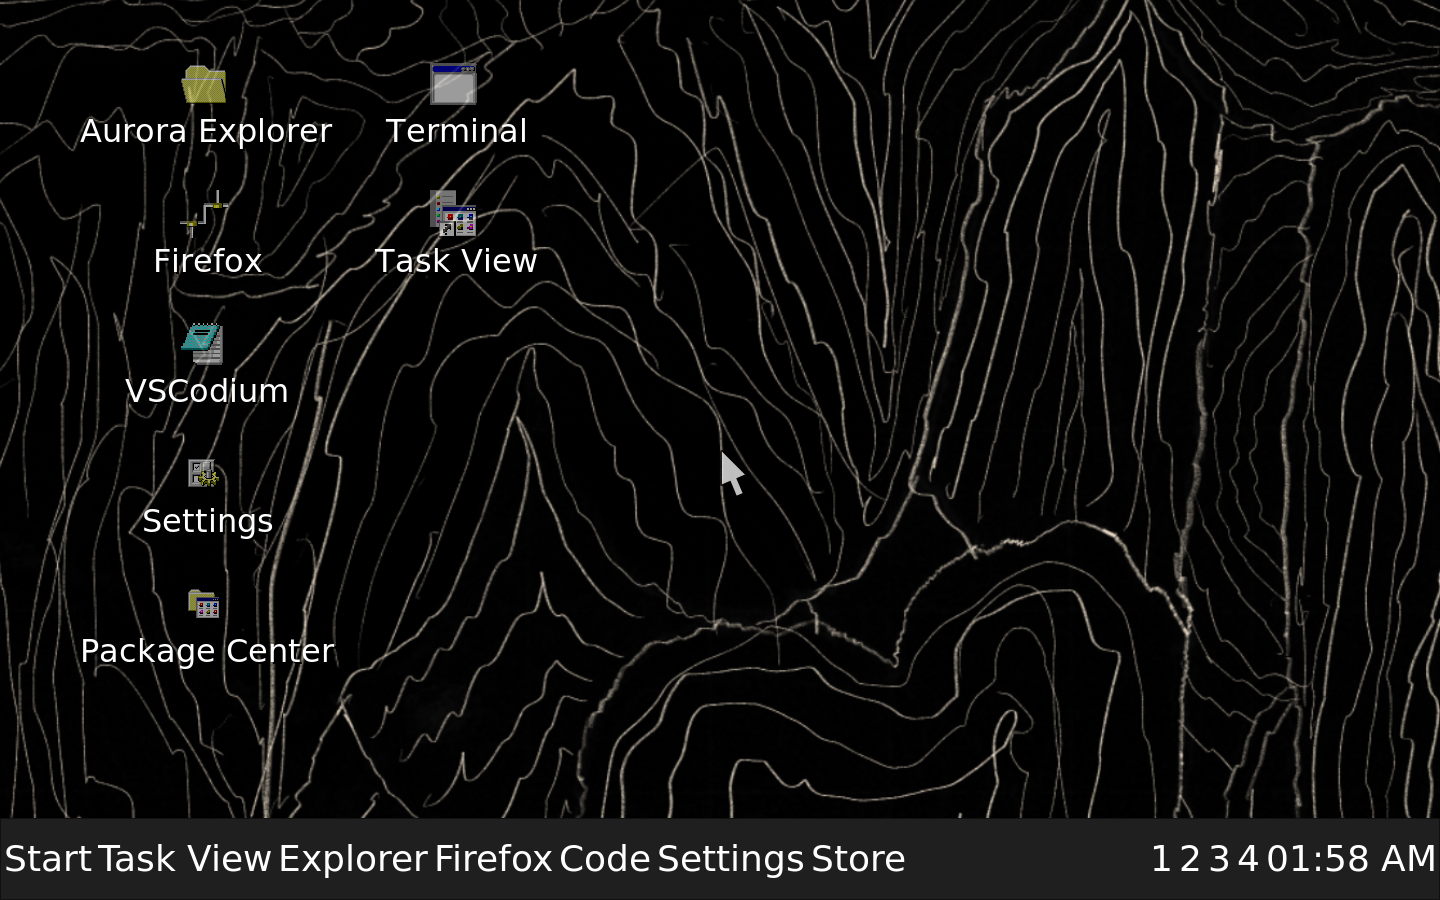
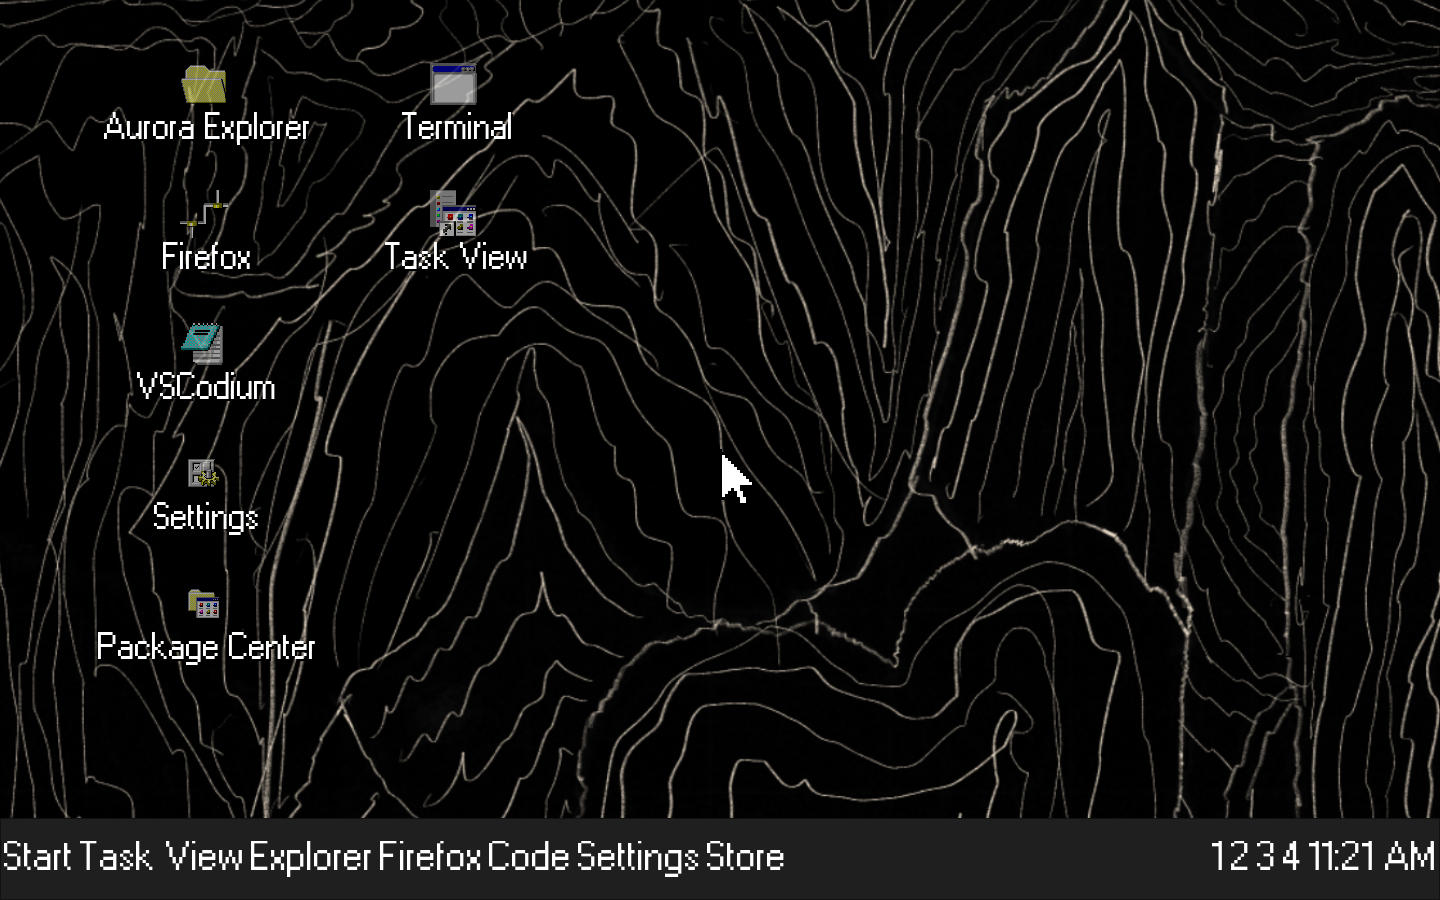
Use supplied pixel cursor and font

diff --git a/tools/build_firefox_qemu.py b/tools/build_firefox_qemu.py
@@ -254,6 +254,49 @@ def write_app_surface() -> None:
     shutil.copy2(ROOT / "IMG_0249.jpg", media_dir / "wallpaper.jpg")
     shutil.copy2(ROOT / "click.wav", sound_dir / "click.wav")
 
+    font_dir = ROOTFS / "usr" / "share" / "fonts" / "aurora"
+    font_dir.mkdir(parents=True, exist_ok=True)
+    shutil.copy2(ROOT / "MSW98UI-Regular copy.ttf", font_dir / "MSW98UI-Regular.ttf")
+    shutil.copy2(ROOT / "MSW98UI-Bold copy.ttf", font_dir / "MSW98UI-Bold.ttf")
+    write_file(
+        "/etc/fonts/conf.d/99-aurora-fonts.conf",
+        """<?xml version="1.0"?>
+<!DOCTYPE fontconfig SYSTEM "fonts.dtd">
+<fontconfig>
+  <alias>
+    <family>sans-serif</family>
+    <prefer><family>MS W98 UI</family></prefer>
+  </alias>
+  <alias>
+    <family>system-ui</family>
+    <prefer><family>MS W98 UI</family></prefer>
+  </alias>
+</fontconfig>
+""",
+    )
+
+    cursor_source = ROOT / "assets" / "cursors" / "aurora-pointer.png"
+    cursor_theme = ROOTFS / "usr" / "share" / "icons" / "AuroraPixel"
+    cursor_dir = cursor_theme / "cursors"
+    cursor_dir.mkdir(parents=True, exist_ok=True)
+    shutil.copy2(cursor_source, cursor_theme / "Arrow1.png")
+    (cursor_theme / "index.theme").write_text(
+        "[Icon Theme]\nName=Aurora Pixel Cursor\nInherits=whiteglass\n"
+    )
+    cursor_config = cursor_theme / "cursor.conf"
+    cursor_config.write_text("48 1 1 Arrow1.png\n")
+    xcursorgen = shutil.which("xcursorgen") or "/opt/X11/bin/xcursorgen"
+    subprocess.run(
+        [xcursorgen, str(cursor_config), str(cursor_dir / "left_ptr")],
+        cwd=cursor_theme,
+        check=True,
+    )
+    for cursor_alias in ("default", "arrow", "top_left_arrow"):
+        alias = cursor_dir / cursor_alias
+        if alias.exists() or alias.is_symlink():
+            alias.unlink()
+        alias.symlink_to("left_ptr")
+
     write_file(
         "/usr/bin/aurora-click",
         """#!/bin/sh
@@ -355,7 +398,7 @@ exec {launcher_command}
 <title>AuroraOS 98 Package Center</title>
 <style>
 * {{ box-sizing: border-box; }}
-html, body {{ margin: 0; min-height: 100%; background: #111 url("wallpaper.jpg") center/cover fixed no-repeat; color: #f3f3f3; font: 20px "DejaVu Sans", sans-serif; }}
+html, body {{ margin: 0; min-height: 100%; background: #111 url("wallpaper.jpg") center/cover fixed no-repeat; color: #f3f3f3; font: 20px "MS W98 UI", sans-serif; }}
 body {{ padding: 10px; }}
 button, input {{ font: inherit; }}
 .window {{ border: 1px solid #333; background: #202020; box-shadow: 0 0 0 1px #000; }}
@@ -894,7 +937,7 @@ echo
 cat <<'HTML'
 <!doctype html><html><head><meta charset="utf-8"><title>Aurora Settings</title>
 <style>
-*{box-sizing:border-box}body{margin:0;background:#111 url("/wallpaper.jpg") center/cover fixed no-repeat;color:#f3f3f3;font:21px "DejaVu Sans",Arial,sans-serif}.window{width:1220px;max-width:calc(100vw - 24px);margin:12px auto;background:#1f1f24;border:1px solid #353542;box-shadow:0 12px 34px #000}.title{height:58px;background:#0078d7;color:#fff;font-size:26px;font-weight:700;padding:13px 20px}.nav{display:flex;gap:10px;padding:14px 18px;background:#18181d;border-bottom:1px solid #333}.nav button{font:inherit;color:#eee;background:#2b2b33;border:1px solid #454553;padding:12px 16px}.nav button.active{background:#0078d7;border-color:#3195e6}.main{padding:20px;min-height:720px}.grid{display:grid;grid-template-columns:1fr 1fr;gap:16px}.section{background:#292933;border:1px solid #3c3c48;padding:18px;margin-bottom:16px}.wide{grid-column:1/-1}.row{display:grid;grid-template-columns:230px 1fr;gap:16px;margin-bottom:12px;align-items:center}.value{background:#17171b;border:1px solid #3c3c48;padding:12px}.btn,input{font:inherit}.btn{padding:12px 16px;background:#333742;color:#f3f3f3;border:1px solid #555b6a}.btn:hover{background:#404755;border-color:#3a96dd}.btn:active{background:#005a9e}input{width:100%;padding:12px;border:1px solid #555;background:#111;color:#fff}table{width:100%;border-collapse:collapse;background:#18181d}th,td{border:1px solid #3c3c48;padding:12px;text-align:left}th{background:#0078d7;color:#fff}.note{background:#15151a;border:1px solid #3c3c48;padding:14px}.msg{background:#111;border:1px solid #0078d7;padding:12px;margin-bottom:14px}.actions{display:flex;gap:12px;flex-wrap:wrap}.storage{height:44px;display:grid;grid-template-columns:26% 17% 1% 1% 34% 14% 7%;overflow:hidden;border:1px solid #424250}.storage span:nth-child(1){background:#ff4343}.storage span:nth-child(2){background:#ff9b2e}.storage span:nth-child(3){background:#ffd400}.storage span:nth-child(4){background:#30d158}.storage span:nth-child(5){background:#8a8a8a}.storage span:nth-child(6){background:#aaa}.storage span:nth-child(7){background:#555}.desktops{display:grid;grid-template-columns:repeat(4,1fr);gap:14px}.desktop{height:110px;background:#111;border:2px solid #444;display:flex;align-items:center;justify-content:center}.desktop.active{border-color:#0078d7;background:#08345a}h1{font-size:40px;margin:0 0 18px}h2{font-size:28px;margin:0 0 14px}
+*{box-sizing:border-box}body{margin:0;background:#111 url("/wallpaper.jpg") center/cover fixed no-repeat;color:#f3f3f3;font:21px "MS W98 UI",Arial,sans-serif}.window{width:1220px;max-width:calc(100vw - 24px);margin:12px auto;background:#1f1f24;border:1px solid #353542;box-shadow:0 12px 34px #000}.title{height:58px;background:#0078d7;color:#fff;font-size:26px;font-weight:700;padding:13px 20px}.nav{display:flex;gap:10px;padding:14px 18px;background:#18181d;border-bottom:1px solid #333}.nav button{font:inherit;color:#eee;background:#2b2b33;border:1px solid #454553;padding:12px 16px}.nav button.active{background:#0078d7;border-color:#3195e6}.main{padding:20px;min-height:720px}.grid{display:grid;grid-template-columns:1fr 1fr;gap:16px}.section{background:#292933;border:1px solid #3c3c48;padding:18px;margin-bottom:16px}.wide{grid-column:1/-1}.row{display:grid;grid-template-columns:230px 1fr;gap:16px;margin-bottom:12px;align-items:center}.value{background:#17171b;border:1px solid #3c3c48;padding:12px}.btn,input{font:inherit}.btn{padding:12px 16px;background:#333742;color:#f3f3f3;border:1px solid #555b6a}.btn:hover{background:#404755;border-color:#3a96dd}.btn:active{background:#005a9e}input{width:100%;padding:12px;border:1px solid #555;background:#111;color:#fff}table{width:100%;border-collapse:collapse;background:#18181d}th,td{border:1px solid #3c3c48;padding:12px;text-align:left}th{background:#0078d7;color:#fff}.note{background:#15151a;border:1px solid #3c3c48;padding:14px}.msg{background:#111;border:1px solid #0078d7;padding:12px;margin-bottom:14px}.actions{display:flex;gap:12px;flex-wrap:wrap}.storage{height:44px;display:grid;grid-template-columns:26% 17% 1% 1% 34% 14% 7%;overflow:hidden;border:1px solid #424250}.storage span:nth-child(1){background:#ff4343}.storage span:nth-child(2){background:#ff9b2e}.storage span:nth-child(3){background:#ffd400}.storage span:nth-child(4){background:#30d158}.storage span:nth-child(5){background:#8a8a8a}.storage span:nth-child(6){background:#aaa}.storage span:nth-child(7){background:#555}.desktops{display:grid;grid-template-columns:repeat(4,1fr);gap:14px}.desktop{height:110px;background:#111;border:2px solid #444;display:flex;align-items:center;justify-content:center}.desktop.active{border-color:#0078d7;background:#08345a}h1{font-size:40px;margin:0 0 18px}h2{font-size:28px;margin:0 0 14px}
 </style><script>function clickSound(){const a=document.getElementById('click-sound');if(a){a.currentTime=0;a.play().catch(()=>{});}}window.addEventListener('DOMContentLoaded',()=>document.querySelectorAll('button').forEach(b=>b.addEventListener('click',clickSound)));</script></head><body><audio id="click-sound" src="/click.wav" preload="auto"></audio><div class="window"><div class="title">Aurora Settings</div><div class="nav"><button class="active">System</button><button>Network</button><button>Sound</button><button>Appearance</button><button>Task View</button><button>Apps</button></div><div class="main"><h1>System</h1>
 HTML
 if [ -n "$message" ]; then
@@ -1037,7 +1080,7 @@ if [ ! -f /tmp/firefox-home/.config/gtk-3.0/settings.ini ]; then
 [Settings]
 gtk-theme-name=Raleigh
 gtk-icon-theme-name=hicolor
-gtk-font-name=DejaVu Sans 17
+gtk-font-name=MS W98 UI 17
 gtk-application-prefer-dark-theme=1
 gtk-enable-animations=0
 EOF
@@ -1057,7 +1100,7 @@ if command -v pcmanfm >/dev/null 2>&1; then
   pcmanfm "$root" >>/tmp/aurora-pcmanfm.log 2>&1 && exit 0
 fi
 
-exec xterm -geometry 104x34+86+76 -title "AuroraOS File Explorer" -bg '#111111' -fg '#f3f3f3' -fa 'DejaVu Sans' -fs 14 -e sh -c 'cd "$1" 2>/dev/null || cd /tmp/firefox-home; echo "PCManFM did not stay open; showing fallback file list."; echo; ls -lah; echo; echo "Press Enter to close."; read line' sh "$root"
+exec xterm -geometry 104x34+86+76 -title "AuroraOS File Explorer" -bg '#111111' -fg '#f3f3f3' -fa 'MS W98 UI' -fs 14 -e sh -c 'cd "$1" 2>/dev/null || cd /tmp/firefox-home; echo "PCManFM did not stay open; showing fallback file list."; echo; ls -lah; echo; echo "Press Enter to close."; read line' sh "$root"
 """,
         0o755,
     )
@@ -1076,7 +1119,7 @@ if command -v idesk >/dev/null 2>&1; then
   mkdir -p /tmp/firefox-home/.idesktop
   cat >/tmp/firefox-home/.ideskrc <<'EOF'
 table Config
-  FontName: DejaVu Sans
+  FontName: MS W98 UI
   FontSize: 16
   FontColor: #ffffff
   ToolTip.FontSize: 13
@@ -1632,7 +1675,7 @@ def read(path, fallback="Unavailable"):
 def button(parent, text, command, width=None):
     widget = tk.Button(parent, text=text, command=command, bg="#343434", fg=TEXT,
                        activebackground=BLUE, activeforeground="white", bd=1,
-                       relief="solid", padx=16, pady=10, font=("DejaVu Sans", 14),
+                       relief="solid", padx=16, pady=10, font=("MS W98 UI", 14),
                        cursor="hand2")
     if width:
         widget.configure(width=width)
@@ -1645,7 +1688,7 @@ class AuroraApp(tk.Tk):
         self.geometry(size)
         self.minsize(920, 620)
         self.configure(bg=BG)
-        self.option_add("*Font", ("DejaVu Sans", 14))
+        self.option_add("*Font", ("MS W98 UI", 14))
         self.option_add("*Foreground", TEXT)
         self.option_add("*Background", BG)
         self.bind_all("<Button-1>", lambda _e: subprocess.Popen(
@@ -1654,15 +1697,15 @@ class AuroraApp(tk.Tk):
 
     def heading(self, parent, title, subtitle=""):
         tk.Label(parent, text=title, bg=BG, fg=TEXT,
-                 font=("DejaVu Sans", 27, "bold"), anchor="w").pack(fill="x", pady=(0, 4))
+                 font=("MS W98 UI", 27, "bold"), anchor="w").pack(fill="x", pady=(0, 4))
         if subtitle:
             tk.Label(parent, text=subtitle, bg=BG, fg=MUTED,
-                     font=("DejaVu Sans", 14), anchor="w").pack(fill="x", pady=(0, 20))
+                     font=("MS W98 UI", 14), anchor="w").pack(fill="x", pady=(0, 20))
 
     def card(self, parent, title):
         frame = tk.Frame(parent, bg=PANEL, bd=1, relief="solid", padx=18, pady=16)
         tk.Label(frame, text=title, bg=PANEL, fg=TEXT,
-                 font=("DejaVu Sans", 18, "bold"), anchor="w").pack(fill="x", pady=(0, 12))
+                 font=("MS W98 UI", 18, "bold"), anchor="w").pack(fill="x", pady=(0, 12))
         return frame
 
 class Settings(AuroraApp):
@@ -1676,7 +1719,7 @@ class Settings(AuroraApp):
         sidebar.pack(side="left", fill="y")
         sidebar.pack_propagate(False)
         tk.Label(sidebar, text="Aurora Settings", bg="#151515", fg=TEXT,
-                 font=("DejaVu Sans", 19, "bold"), anchor="w").pack(fill="x", padx=8, pady=(4, 22))
+                 font=("MS W98 UI", 19, "bold"), anchor="w").pack(fill="x", padx=8, pady=(4, 22))
         self.content = tk.Frame(shell, bg=BG, padx=30, pady=26)
         self.content.pack(side="left", fill="both", expand=True)
         for name in self.pages:
@@ -1776,7 +1819,7 @@ class Settings(AuroraApp):
             preview.grid(row=(index-1)//2, column=(index-1)%2, padx=10, pady=10, sticky="nsew")
             preview.grid_propagate(False)
             tk.Label(preview, text=f"Desktop {index}", bg=PANEL2, fg=TEXT,
-                     font=("DejaVu Sans", 20, "bold")).pack(expand=True)
+                     font=("MS W98 UI", 20, "bold")).pack(expand=True)
             button(preview, "Switch", lambda i=index: run(["jwm", "-desktop", str(i)])).pack(pady=14)
         grid.grid_columnconfigure((0, 1), weight=1)
         grid.grid_rowconfigure((0, 1), weight=1)
@@ -1803,7 +1846,7 @@ class PackageCenter(AuroraApp):
         for row, (name, description, state, cmd) in enumerate(self.apps):
             card = tk.Frame(listing, bg=PANEL, bd=1, relief="solid", padx=16, pady=12)
             card.grid(row=row, column=0, sticky="ew", pady=5)
-            tk.Label(card, text=name, bg=PANEL, fg=TEXT, font=("DejaVu Sans", 17, "bold"), anchor="w").grid(row=0, column=0, sticky="w")
+            tk.Label(card, text=name, bg=PANEL, fg=TEXT, font=("MS W98 UI", 17, "bold"), anchor="w").grid(row=0, column=0, sticky="w")
             tk.Label(card, text=description, bg=PANEL, fg=MUTED, anchor="w").grid(row=1, column=0, sticky="w")
             button(card, "Open" if state == "Installed" else state, lambda c=cmd: run(c), width=10).grid(row=0, column=1, rowspan=2, padx=8)
             card.grid_columnconfigure(0, weight=1)
@@ -1814,7 +1857,7 @@ class PackageCenter(AuroraApp):
         dialog.title("Install Linux package")
         dialog.geometry("560x220")
         dialog.configure(bg=PANEL)
-        tk.Label(dialog, text="Alpine package name", bg=PANEL, fg=TEXT, font=("DejaVu Sans", 18, "bold")).pack(anchor="w", padx=22, pady=(22, 10))
+        tk.Label(dialog, text="Alpine package name", bg=PANEL, fg=TEXT, font=("MS W98 UI", 18, "bold")).pack(anchor="w", padx=22, pady=(22, 10))
         entry = tk.Entry(dialog, bg="#111", fg=TEXT, insertbackground=TEXT)
         entry.pack(fill="x", padx=22, ipady=8)
         button(dialog, "Install", lambda: run(["/usr/bin/aurora-package-install-custom", entry.get()])).pack(anchor="e", padx=22, pady=18)
@@ -1832,7 +1875,7 @@ class TaskView(AuroraApp):
             preview = tk.Frame(grid, bg=PANEL2, bd=2, relief="solid", width=500, height=210)
             preview.grid(row=(index-1)//2, column=(index-1)%2, padx=10, pady=10, sticky="nsew")
             preview.grid_propagate(False)
-            tk.Label(preview, text=f"Desktop {index}", bg=PANEL2, fg=TEXT, font=("DejaVu Sans", 22, "bold")).pack(pady=(40, 8))
+            tk.Label(preview, text=f"Desktop {index}", bg=PANEL2, fg=TEXT, font=("MS W98 UI", 22, "bold")).pack(pady=(40, 8))
             tk.Label(preview, text=label, bg=PANEL2, fg=MUTED).pack()
             button(preview, "Switch desktop", lambda i=index: (run(["jwm", "-desktop", str(i)]), self.destroy())).pack(pady=20)
         grid.grid_columnconfigure((0, 1), weight=1)
@@ -1901,6 +1944,8 @@ exec /usr/bin/aurora-control-center {mode}
             return "/usr/bin/aurora-launch-settings"
         if name == "Package Center":
             return "/usr/bin/aurora-launch-package-center"
+        if name == "Firefox":
+            return "/usr/bin/aurora-launch-firefox"
         if name == "Run Windows EXE":
             return with_click("/usr/bin/aurora-run-exe")
         if name in {"File Explorer", "Explorer"}:
@@ -1985,7 +2030,7 @@ exec /usr/bin/aurora-control-center {mode}
 
   <Desktops width="4" height="1" />
   <WindowStyle>
-    <Font>DejaVu Sans-18</Font>
+    <Font>MS W98 UI-18</Font>
     <Width>2</Width>
     <Height>46</Height>
     <Active>
@@ -2000,19 +2045,19 @@ exec /usr/bin/aurora-control-center {mode}
     </Inactive>
   </WindowStyle>
   <TaskListStyle>
-    <Font>DejaVu Sans-18</Font>
+    <Font>MS W98 UI-18</Font>
     <ActiveForeground>#ffffff</ActiveForeground>
     <ActiveBackground>#0b4ba5</ActiveBackground>
     <Foreground>#f3f3f3</Foreground>
     <Background>#1f1f1f</Background>
   </TaskListStyle>
   <TrayStyle>
-    <Font>DejaVu Sans-18</Font>
+    <Font>MS W98 UI-18</Font>
     <Background>#1f1f1f</Background>
     <Foreground>#ffffff</Foreground>
   </TrayStyle>
   <MenuStyle>
-    <Font>DejaVu Sans-18</Font>
+    <Font>MS W98 UI-18</Font>
     <Foreground>#f3f3f3</Foreground>
     <Background>#202020</Background>
     <ActiveForeground>#ffffff</ActiveForeground>
@@ -2174,9 +2219,9 @@ export MOZ_DISABLE_CONTENT_SANDBOX=1
 export GDK_DPI_SCALE=1.25
 export GDK_SCALE=1
 export QT_SCALE_FACTOR=1.25
-export XCURSOR_THEME=whiteglass
+export XCURSOR_THEME=AuroraPixel
 export XCURSOR_SIZE=48
-printf 'Xft.dpi: 144\nXcursor.size: 48\nXcursor.theme: whiteglass\n' >/tmp/firefox-home/.Xresources
+printf 'Xft.dpi: 144\nXcursor.size: 48\nXcursor.theme: AuroraPixel\n' >/tmp/firefox-home/.Xresources
 xrdb -merge /tmp/firefox-home/.Xresources 2>/dev/null || true
 feh --bg-fill /usr/share/aurora/wallpaper.jpg >/tmp/aurora-xinit-wallpaper.log 2>&1 || true
 exec jwm -f /etc/jwm/aurora.jwmrc
@@ -2200,14 +2245,14 @@ chmod 700 /run/user/0
 chmod 700 /tmp/firefox-home /tmp/firefox-home/profile
 cat >/tmp/firefox-home/.gtkrc-2.0 <<'EOF'
 gtk-theme-name="AuroraDark"
-gtk-font-name="DejaVu Sans 14"
+gtk-font-name="MS W98 UI 14"
 gtk-icon-theme-name="Adwaita"
 EOF
 mkdir -p /tmp/firefox-home/.config/gtk-3.0
 cat >/tmp/firefox-home/.config/gtk-3.0/settings.ini <<'EOF'
 [Settings]
 gtk-theme-name=Adwaita-dark
-gtk-font-name=DejaVu Sans 14
+gtk-font-name=MS W98 UI 14
 gtk-icon-theme-name=Adwaita
 EOF
 cp /usr/share/aurora/mimeapps.list /tmp/firefox-home/.local/share/applications/mimeapps.list 2>/dev/null || true
@@ -2282,7 +2327,7 @@ export HOME=/tmp/firefox-home
 export DISPLAY=:0
 export XDG_RUNTIME_DIR=/run/user/0
 export XCURSOR_SIZE=48
-export XCURSOR_THEME=whiteglass
+export XCURSOR_THEME=AuroraPixel
 export GDK_DPI_SCALE=1.25
 export GDK_SCALE=1
 export QT_SCALE_FACTOR=1.25
@@ -2307,7 +2352,7 @@ if command -v dbus-launch >/dev/null 2>&1; then
     [ -s /tmp/dbus-session.env ] && . /tmp/dbus-session.env
 fi
 xsetroot -display :0 -solid '#111111' >/dev/console 2>&1 || true
-printf 'Xft.dpi: 144\nXcursor.size: 48\nXcursor.theme: whiteglass\n' >/tmp/firefox-home/.Xresources
+printf 'Xft.dpi: 144\nXcursor.size: 48\nXcursor.theme: AuroraPixel\n' >/tmp/firefox-home/.Xresources
 xrdb -display :0 -merge /tmp/firefox-home/.Xresources >/dev/console 2>&1 || true
 xsetroot -display :0 -cursor_name left_ptr >/dev/console 2>&1 || true
 xmodmap -display :0 -e "clear mod4" -e "keycode 133 = Control_L NoSymbol Control_L" -e "keycode 134 = Control_R NoSymbol Control_R" -e "add Control = Control_L Control_R" >/var/log/xmodmap.log 2>&1 || true

diff --git a/README.md b/README.md
@@ -12,7 +12,8 @@ AuroraOS 98 is an experimental Linux operating-system environment for x86-64 PCs
 - Xorg with the Aurora JWM desktop session
 - 1440x900 desktop with large-interface scaling
 - Start menu, taskbar, desktop icons, four workspaces, and keyboard launch shortcuts
-- large white `whiteglass` Xcursor theme
+- supplied Aurora pixel cursor theme built from `assets/cursors/aurora-pointer.png`
+- supplied MS W98 UI pixel font across the desktop, controls, and application chrome
 - real Firefox ESR with QEMU NAT networking
 - real VSCodium, packaged for Alpine/musl
 - PCManFM graphical file explorer
@@ -22,6 +23,12 @@ AuroraOS 98 is an experimental Linux operating-system environment for x86-64 PCs
 - Python 3 and pip
 - NetworkManager tools, Wi-Fi controls for real hardware, and QEMU Ethernet networking
 - ALSA/QEMU audio plumbing and Aurora interface sounds
+
+## Real Firefox
+
+AuroraOS bundles Firefox ESR with working QEMU NAT networking. This capture shows the browser loading a live external site inside the guest OS.
+
+![Firefox ESR running inside AuroraOS 98](docs/screenshots/firefox.png)
 
 ## Real VSCodium
 